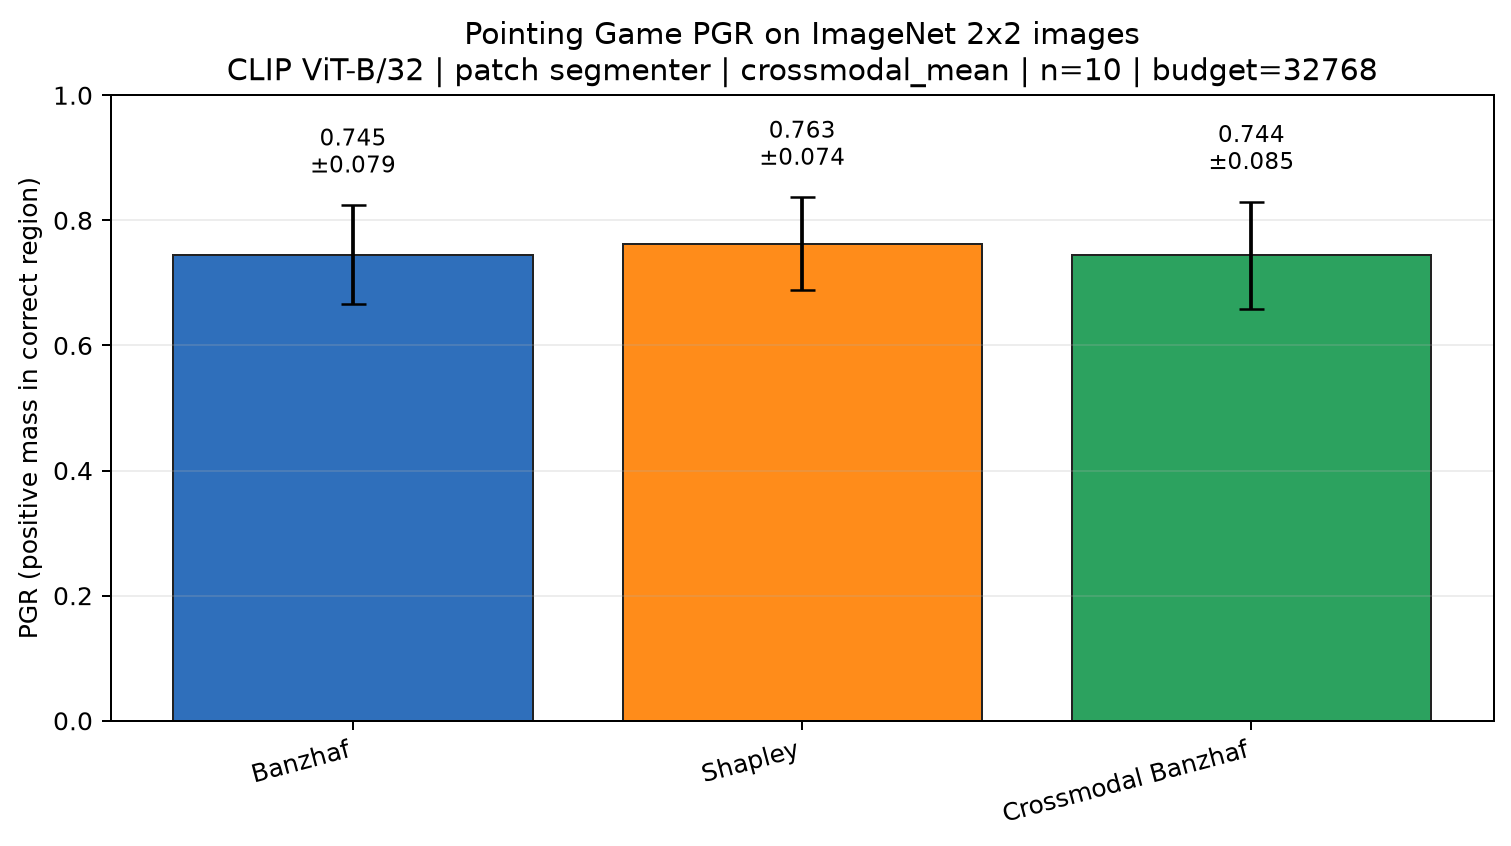
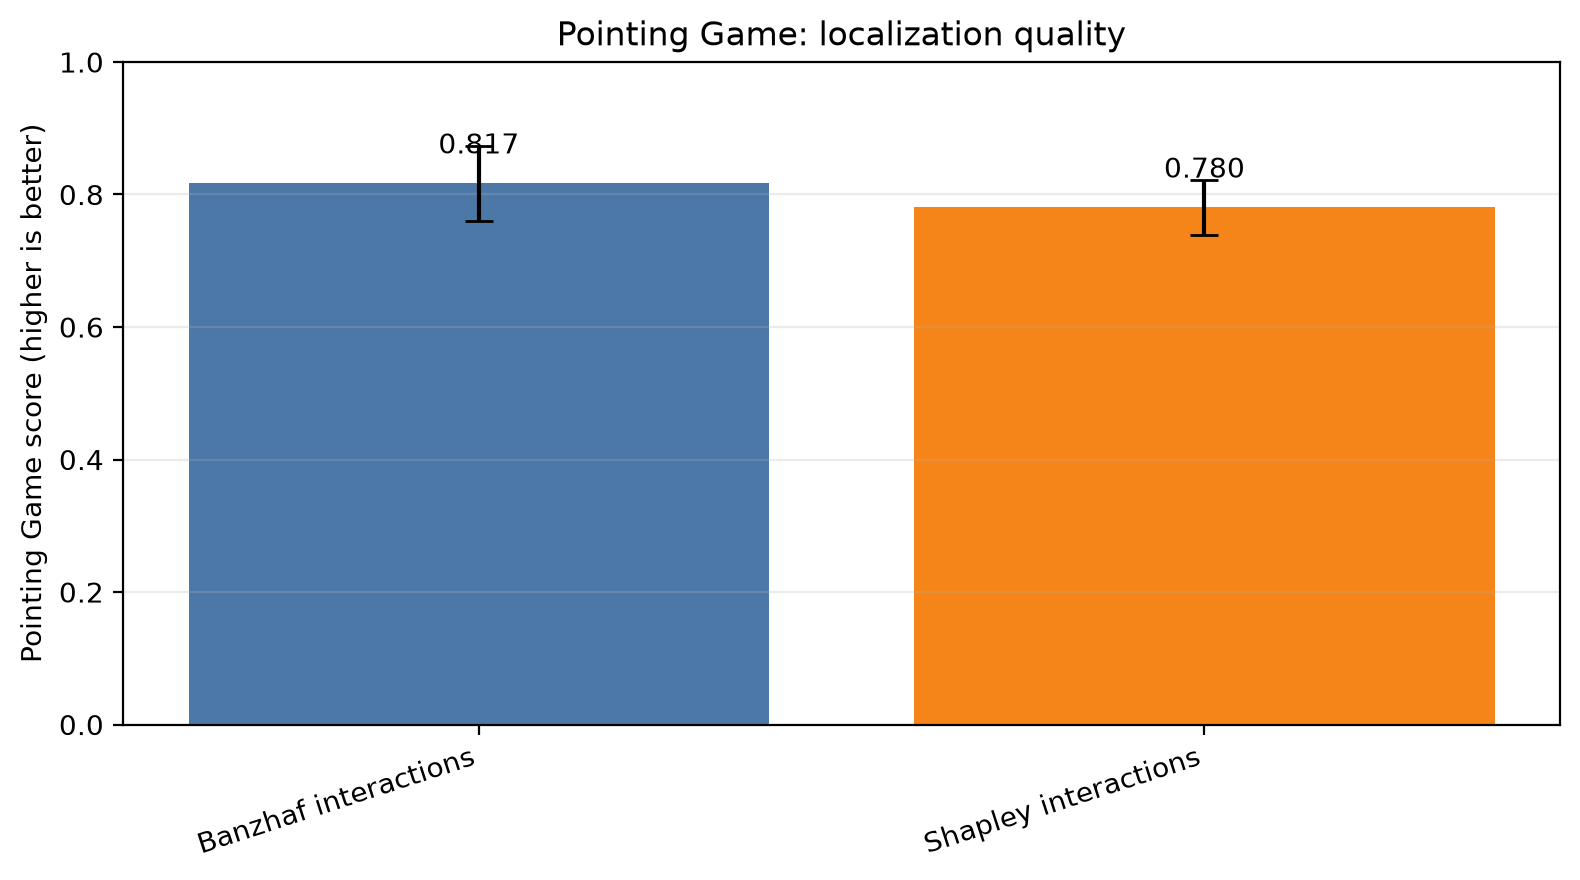
update readme with budget 5k

diff --git a/experiments/migrated/pointing_game_banzhaf.py b/experiments/migrated/pointing_game_banzhaf.py
@@ -9,6 +9,7 @@ parser.add_argument('--class_labels', type=str)
 parser.add_argument('--budget', type=int)
 parser.add_argument('--batch_size', default=64, type=int)
 parser.add_argument('--random_state', default=0, type=int)
+parser.add_argument('--num_images', default=10, type=int)
 args = parser.parse_args()
 MODEL_NAME = args.model_name
 PATH_INPUT = args.path_input
@@ -19,9 +20,11 @@ CLASS_LABELS = args.class_labels
 BUDGET = args.budget
 BATCH_SIZE = args.batch_size
 RANDOM_STATE = args.random_state
+NUM_IMAGES = args.num_images
 
 print(f'-- Input: {PATH_INPUT}', flush=True)
 print(f'-- Output: {PATH_OUTPUT}', flush=True)
+print(f'-- Num images: {NUM_IMAGES}', flush=True)
 
 import torch
 DEVICE = torch.device('cuda' if torch.cuda.is_available() else 'cpu')
@@ -51,11 +54,11 @@ with wandb.init(project="", name=PATH_OUTPUT, config=args) as run:
 
     model = CLIPModel.from_pretrained(MODEL_NAME)
     model.to(DEVICE)
-    processor = CLIPProcessor.from_pretrained(MODEL_NAME)
+    processor = CLIPProcessor.from_pretrained(MODEL_NAME, use_fast=True)
     input_text = CLASS_LABELS.replace("_", " ")
     factory = VisionImputerFactory()
 
-    for i in range(10):
+    for i in range(NUM_IMAGES):
         input_image = Image.open(os.path.join(PATH_INPUT, f'{i}.jpg'))
         imputer = factory.build(
             model,
@@ -95,7 +98,10 @@ with wandb.init(project="", name=PATH_OUTPUT, config=args) as run:
         banzhaf_values.save(Path(PATH_OUTPUT) / f'iv_order1_{i}.json')
 
         ## visualize explanations
-        text_tokens = game.inputs.tokens()
+        if hasattr(game.inputs, "tokens"):
+            text_tokens = game.inputs.tokens()
+        else:
+            text_tokens = game.processor.tokenizer.convert_ids_to_tokens(game.inputs["input_ids"][0])
         text_tokens = text_tokens[1:-1]
         text_tokens = [token.replace('</w>', '') for token in text_tokens]
         assert len(text_tokens) == game.n_players_text

diff --git a/experiments/migrated/pointing_game_shapley.py b/experiments/migrated/pointing_game_shapley.py
@@ -8,6 +8,7 @@ parser.add_argument('--class_labels', type=str)
 parser.add_argument('--budget', type=int)
 parser.add_argument('--batch_size', default=64, type=int)
 parser.add_argument('--random_state', default=0, type=int)
+parser.add_argument('--num_images', default=10, type=int)
 args = parser.parse_args()
 MODEL_NAME = args.model_name
 PATH_INPUT = args.path_input
@@ -17,9 +18,11 @@ CLASS_LABELS = args.class_labels
 BUDGET = args.budget
 BATCH_SIZE = args.batch_size
 RANDOM_STATE = args.random_state
+NUM_IMAGES = args.num_images
 
 print(f'-- Input: {PATH_INPUT}', flush=True)
 print(f'-- Output: {PATH_OUTPUT}', flush=True)
+print(f'-- Num images: {NUM_IMAGES}', flush=True)
 
 import torch
 DEVICE = torch.device('cuda' if torch.cuda.is_available() else 'cpu')
@@ -49,11 +52,11 @@ with wandb.init(project="", name=PATH_OUTPUT, config=args) as run:
 
     model = CLIPModel.from_pretrained(MODEL_NAME)
     model.to(DEVICE)
-    processor = CLIPProcessor.from_pretrained(MODEL_NAME)
+    processor = CLIPProcessor.from_pretrained(MODEL_NAME, use_fast=True)
     input_text = CLASS_LABELS.replace("_", " ")
     factory = VisionImputerFactory()
 
-    for i in range(10):
+    for i in range(NUM_IMAGES):
         input_image = Image.open(os.path.join(PATH_INPUT, f'{i}.jpg'))
         imputer = factory.build(
             model,
@@ -92,7 +95,10 @@ with wandb.init(project="", name=PATH_OUTPUT, config=args) as run:
         banzhaf_values.save(Path(PATH_OUTPUT) / f'iv_order1_{i}.json')
 
         ## visualize explanations
-        text_tokens = game.inputs.tokens()
+        if hasattr(game.inputs, "tokens"):
+            text_tokens = game.inputs.tokens()
+        else:
+            text_tokens = game.processor.tokenizer.convert_ids_to_tokens(game.inputs["input_ids"][0])
         text_tokens = text_tokens[1:-1]
         text_tokens = [token.replace('</w>', '') for token in text_tokens]
         assert len(text_tokens) == game.n_players_text

diff --git a/experiments/migrated/faithfulness.py b/experiments/migrated/faithfulness.py
@@ -78,7 +78,7 @@ with wandb.init(project="", name=f'{PATH_OUTPUT}/{MODEL_NAME}/faith', config=arg
 
     model_huggingface = CLIPModel.from_pretrained(MODEL_NAME)
     model_huggingface.to(DEVICE)
-    processor_huggingface = CLIPProcessor.from_pretrained(MODEL_NAME, use_fast=False)
+    processor_huggingface = CLIPProcessor.from_pretrained(MODEL_NAME, use_fast=True)
 
     model_openai, processor_openai = clip.load("ViT-B/32" if MODEL_NAME.endswith("32") else "ViT-B/16", device=DEVICE)
 

diff --git a/README.md b/README.md
@@ -62,36 +62,17 @@ See notebooks below for end-to-end examples.
 
 ### 1. Faithfulness
 
-How well do Shapley-interaction explanations predict the model's output under coalition
-occlusion? We evaluate this by comparing explanation scores against output changes from
-random coalition masking. Higher Pearson/Spearman correlation is better, and lower MSE is
-better.
-
-| Setting | Value |
-|---|---|
-| Model | CLIP ViT-B/32 |
-| Segmenter / masker | patch / crossmodal_mean |
-| Evaluation set | 20 MS COCO samples, 1000 evaluation coalitions per image |
-
-Reported method comparison at `p=0.5`:
-
-| Method | Pearson r ↑ | Spearman ρ ↑ | MSE ↓ |
-|---|---:|---:|---:|
-| exCLIP | 0.390 | 0.365 | 22.442 |
-| GAME | 0.180 | 0.165 | 22.155 |
-| Grad-ECLIP | 0.262 | 0.242 | 18.127 |
-| Shapley values | 0.825 | 0.777 | 29.099 |
-| Banzhaf values, p=0.5 | 0.234 | 0.222 | 20.749 |
-| FIxLIP WBI, p=0.5 | 0.362 | 0.341 | 13.872 |
+The figure compares first-order attribution methods with second-order FIxLIP
+interaction explanations under the paper-style p-faithfulness protocol.
 
 <img src="data/report_pictures/faithfulness.png" width="400" alt="faithfulness">
 
-Additional result figures:
+Additional Faithfulness figures:
 
-| Metric | Method comparison | p-sweep |
+| Metric | Fixed-p comparison | p-sweep |
 |---|---|---|
 | R² | [`p=0.5`](faithfulness_clip-32_r2_methods_0.5_rotated.pdf), [`p=0.7`](faithfulness_clip-32_r2_methods_0.7_rotated.pdf) | [`appendix`](appendix/faithfulness_clip-32_r2.pdf) |
-| Spearman ρ | [`p=0.5`](faithfulness_clip-32_spearman_correlation_methods_0.5_rotated.pdf), [`p=0.7`](faithfulness_clip-32_spearman_correlation_methods_0.7_rotated.pdf) | [`appendix`](appendix/faithfulness_clip-32_spearman_correlation.pdf) |
+| p-faithfulness | [`p=0.5`](faithfulness_clip-32_spearman_correlation_methods_0.5_rotated.pdf), [`p=0.7`](faithfulness_clip-32_spearman_correlation_methods_0.7_rotated.pdf) | [`appendix`](appendix/faithfulness_clip-32_spearman_correlation.pdf) |
 
 ---
 
@@ -128,23 +109,24 @@ AID ↑ (area between the insertion and deletion curves; higher is better).
 
 ### 3. Pointing Game
 
-Positive Gradient Removal (PGR) accuracy — does the explanation correctly identify the
-image region most responsible for the prediction?
-Token-level PGR breaks this down by the four class tokens and their corresponding image regions.
+Following the FIxLIP extension of the pointing game to interaction explanations, this
+measures whether attribution mass is assigned to the image region matching each class
+token. The score is the mass ratio assigned to the correct region; higher is better.
 
 | Setting | Value |
 |---|---|
 | Model | CLIP ViT-B/32 |
+| Dataset | ImageNet 2×2 four-object images |
 | Segmenter | patch |
-| Metric | PGR accuracy, token-level PGR |
+| Metric | Pointing Game score, token-level Pointing Game score |
+| Evaluation set | 20 samples, budget 5000 |
 
 #### Results
 
-| Explanation | PGR ↑ | banana | cat | tractor | ball |
+| Explanation | Pointing Game ↑ | banana | cat | tractor | ball |
 |---|---:|---:|---:|---:|---:|
-| Banzhaf interactions | 0.745 ± 0.079 | 0.683 | 0.778 | 0.830 | 0.688 |
-| Shapley interactions | 0.763 ± 0.074 | 0.753 | 0.804 | 0.847 | 0.646 |
-| Crossmodal Banzhaf | 0.744 ± 0.085 | 0.696 | 0.779 | 0.816 | 0.687 |
+| Banzhaf interactions | 0.817 ± 0.057 | 0.776 | 0.842 | 0.839 | 0.777 |
+| Shapley interactions | 0.780 ± 0.042 | 0.753 | 0.757 | 0.838 | 0.740 |
 
 <table>
 <tr>
